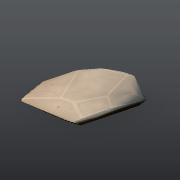
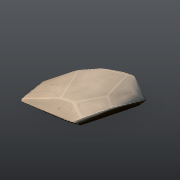
Dents: soft worn hollows in a rock's larger faces
A new Dents setting under Shape lets some of the larger faces dip a little,
their light turning in and their middle darkening, so they read as worn
hollows. It moves points already in the face, so it adds no faces. Dents is
0.3 for new rocks; saved and low-poly rocks have none.

Changed region(s): [[0.4167, 0.5556, 0.7778, 0.6944], [0.3056, 0.5833, 0.3333, 0.6111]]

diff --git a/frontend/src/assets/rocks/rock-mesh.ts b/frontend/src/assets/rocks/rock-mesh.ts
@@ -46,6 +46,8 @@ export interface RockSurface {
      * colour carry over their seams, and every chunk rounds a little more.
      */
     readonly blend?: number
+    /** How many of a carved rock's larger faces dip into soft hollows, 0 to 1. Left out, none. */
+    readonly dents?: number
 }
 
 /** How far the warp moves a point at full Bend, as a share of the rock's size. */
@@ -87,6 +89,11 @@ const BLEND_ROUNDING = 0.4
 const BLEND_WHOLE = 0.35
 /** How much of a seam's darkness full Blend takes away, leaving a crease. */
 const BLEND_SEAM = 0.75
+/** At full Dents, the share of large faces that dip, how deep against the face's size, how far their light turns and how much darker they are. */
+const DENT_SHARE = 0.6
+const DENT_DEPTH = 0.08
+const DENT_TILT = 0.18
+const DENT_SHADE = 0.22
 /** A carved rock's contact with the ground: a short, strong dark band. */
 const CONTACT_REACH = 0.1
 const CONTACT_DARK = 0.42
@@ -484,6 +491,11 @@ function meshAt(plan: RockPlan, surface: RockSurface, seed: number, detail: numb
                     : corners.map((p): Vec3 => [middle[0] + (p[0] - middle[0]) * at, middle[1] + (p[1] - middle[1]) * at, middle[2] + (p[2] - middle[2]) * at]),
             )
             const pillow = carved ? surface.bend * PILLOW * radius : 0
+            // Which faces dip is read from the face's own number, so it stays the same at every setting.
+            const dents = clamp01(surface.dents ?? 0)
+            const dented = carvedFully && dents > 0 && radius > size * INNER_FROM && (plane.tone * 7.31) % 1 < dents * DENT_SHARE
+            const dip = dented ? DENT_DEPTH * radius * (0.6 + dents * 0.4) : 0
+            const hollow = dented ? 0.6 + dents * 0.4 : 0
             // A vertex is written only if a triangle that stays uses it.
             const written = new Map<string, number>()
             const vertex = (slot: string, p: Vec3, n: Vec3, onEdge: boolean, at = 0) => {
@@ -492,10 +504,22 @@ function meshAt(plan: RockPlan, surface: RockSurface, seed: number, detail: numb
                 if (index === undefined) {
                     // A carved face swells a little towards its middle; its edges stay put,
                     // so it still meets the next face.
-                    const rise = pillow * (1 - at * at)
-                    const moved = warp(rise > 0 ? [p[0] + plane.n[0] * rise, p[1] + plane.n[1] * rise, p[2] + plane.n[2] * rise] : p)
-                    const lit = carved ? roundedLight(n, p) : n
+                    // A dented face dips instead, its light turning in towards the hollow.
+                    const rise = (pillow - dip) * (1 - at * at)
+                    const moved = warp(rise !== 0 ? [p[0] + plane.n[0] * rise, p[1] + plane.n[1] * rise, p[2] + plane.n[2] * rise] : p)
+                    const smooth = carved ? roundedLight(n, p) : n
+                    const lit = dented
+                        ? normalize([
+                              smooth[0] + ((middle[0] - p[0]) / radius) * DENT_TILT * hollow,
+                              smooth[1] + ((middle[1] - p[1]) / radius) * DENT_TILT * hollow,
+                              smooth[2] + ((middle[2] - p[2]) / radius) * DENT_TILT * hollow,
+                          ])
+                        : smooth
                     const colour = paint(p, plane, chunkIndex, onEdge, carved ? {n: lit, at} : undefined)
+
+                    if (dented) {
+                        colour.multiplyScalar(1 - DENT_SHADE * hollow * (1 - at * at))
+                    }
 
                     index = positions.length / 3
                     positions.push(moved[0], moved[1], moved[2])

diff --git a/frontend/src/assets/rocks/cut-rock-generator.ts b/frontend/src/assets/rocks/cut-rock-generator.ts
@@ -88,7 +88,7 @@ const PALETTE: ChoiceParameter<RockPaletteId | OwnColours> = {
 }
 
 /** Controls a low-poly rock has no use for: its edges are hard and its faces flat. */
-const HIDDEN_WHEN_LOW_POLY: readonly string[] = ['edges', 'bend', 'grain', 'rounded', 'blend']
+const HIDDEN_WHEN_LOW_POLY: readonly string[] = ['edges', 'bend', 'grain', 'rounded', 'blend', 'dents']
 
 const STONE = ownColours(PALETTE, ROCK_RAMPS, STONE_ROWS, 'stone')
 
@@ -109,10 +109,12 @@ const VARIATION = number(SURFACE, 'variation', 'Variation', 'How much one face d
 const ROUNDED = number(SURFACE, 'rounded', 'Rounded light', 'How the light falls: flat on each face, or rolling over the whole stone like a pebble. The faces and outline stay as they are.', 0, 1, 0.05, 0.5)
 /** On for new rocks. A saved file without it opens with none. */
 const BLEND = number(SURFACE, 'blend', 'Blend', 'How far the chunks run together into one stone, so where they meet reads as a crease and not a cut.', 0, 1, 0.05, 0.6)
+/** On for new rocks. A saved file without it opens with none. */
+const DENTS = number(SHAPE, 'dents', 'Dents', 'Soft hollows worn into some of the larger faces.', 0, 1, 0.05, 0.3)
 const RUBBLE = number(SHAPE, 'rubble', 'Rubble', 'Small stones of the same rock lying round its foot.', 0, 1, 0.05, 0)
 const GRAIN = number(SURFACE, 'grain', 'Grain', 'Fine speckle, small pits and hairline cracks in the stone, seen up close.', 0, 1, 0.05, 0.6)
 
-const specs: readonly ParameterSpec[] = [BUILD, KIND, WIDTH, HEIGHT, DEPTH, CHUNKS, FACES, CUTS, RUBBLE, EDGES, ROUNDED, BLEND, BEND, VARIATION, GRAIN, PALETTE, ...STONE.specs, SNOW, MOSS, MOSS_FROM, WET, CRACKS, CRUMBLE]
+const specs: readonly ParameterSpec[] = [BUILD, KIND, WIDTH, HEIGHT, DEPTH, CHUNKS, FACES, CUTS, DENTS, RUBBLE, EDGES, ROUNDED, BLEND, BEND, VARIATION, GRAIN, PALETTE, ...STONE.specs, SNOW, MOSS, MOSS_FROM, WET, CRACKS, CRUMBLE]
 
 export interface CutRockParameters extends Partial<OwnColourValues<typeof STONE_ROWS>> {
     readonly build: RockBuild
@@ -136,6 +138,7 @@ export interface CutRockParameters extends Partial<OwnColourValues<typeof STONE_
     readonly rounded: number
     readonly blend: number
     readonly rubble: number
+    readonly dents: number
     readonly palette: RockPaletteId | OwnColours
 }
 
@@ -159,6 +162,7 @@ export const cutRockDefaults: CutRockParameters = {
     rounded: ROUNDED.default,
     blend: BLEND.default,
     rubble: RUBBLE.default,
+    dents: DENTS.default,
     palette: PALETTE.default,
 }
 
@@ -182,6 +186,7 @@ const cutRockSchema = z.object({
     rounded: numberSchema(ROUNDED),
     blend: numberSchema(BLEND),
     rubble: numberSchema(RUBBLE),
+    dents: numberSchema(DENTS),
     palette: choiceSchema(PALETTE),
     ...STONE.schema,
 })

diff --git a/frontend/src/tests/rock-blend.test.ts b/frontend/src/tests/rock-blend.test.ts
@@ -116,3 +116,47 @@ describe('rubble', () => {
         expect(faces(1, 0.12)).toBeGreaterThan(faces(0, 0.12))
     })
 })
+
+describe('dents', () => {
+    const mossy = (changes: Partial<CutRockParameters> = {}): CutRockParameters => ({...(findPreset('mossy-boulder')!.parameters as unknown as CutRockParameters), ...changes})
+    const mossySeed = findPreset('mossy-boulder')!.seed
+    const build = (rock: CutRockParameters) => buildRockMesh(planRock(rock, mossySeed), rock, mossySeed, 1)
+
+    it('are on for new rocks, hidden on a low-poly one, and none on a saved one', () => {
+        expect(cutRockDefaults.dents).toBe(0.3)
+        expect(cutRockGenerator.shownControls!({...cutRockDefaults, build: 'low-poly'}).map((spec) => spec.key)).not.toContain('dents')
+
+        const document = JSON.parse(serializeProject({scene: createSceneFromPreset('boulder'), style: 'low-poly'})) as {
+            scene: {assets: {parameters: Record<string, unknown>}[]}
+        }
+
+        delete document.scene.assets[0].parameters.dents
+        expect(parseProject(JSON.stringify(document)).scene.assets[0].parameters.dents).toBe(0)
+    })
+
+    it('hollow some faces darker and deeper, at no cost in faces', () => {
+        const flat = build(mossy({dents: 0}))
+        const dented = build(mossy({dents: 1}))
+        const total = (geometry: THREE.BufferGeometry) => {
+            const colour = geometry.getAttribute('color')
+            let sum = 0
+
+            for (let index = 0; index < colour.count; index++) {
+                sum += brightness(colour, index)
+            }
+
+            return sum
+        }
+
+        expect(dented.index!.count).toBe(flat.index!.count)
+        expect(total(dented)).toBeLessThan(total(flat))
+        expect(Array.from(dented.getAttribute('position').array)).not.toEqual(Array.from(flat.getAttribute('position').array))
+    })
+
+    it('leave a rock saved before Rounded light alone', () => {
+        const before = build(mossy({rounded: 0, dents: 0}))
+        const after = build(mossy({rounded: 0, dents: 1}))
+
+        expect(Array.from(after.getAttribute('position').array)).toEqual(Array.from(before.getAttribute('position').array))
+    })
+})

diff --git a/frontend/src/core/project/project-document.ts b/frontend/src/core/project/project-document.ts
@@ -262,8 +262,8 @@ export function parseProject(text: string): LoadedProject {
  * file version stays as it is and older builds still open what this one saves.
  */
 const EARLIER_LOOKS: Readonly<Record<string, Readonly<Record<string, number>>>> = {
-    // Rocks gained Grain after 0.4.2, then Rounded light and Blend.
-    'cut-rock': {grain: 0, rounded: 0, blend: 0},
+    // Rocks gained Grain after 0.4.2, then Rounded light, Blend and Dents.
+    'cut-rock': {grain: 0, rounded: 0, blend: 0, dents: 0},
 }
 
 function filledIn(values: unknown, earlier: Readonly<Record<string, number>>): unknown {

diff --git a/frontend/src/tests/cut-rock.test.ts b/frontend/src/tests/cut-rock.test.ts
@@ -61,7 +61,8 @@ describe('cut rocks', () => {
     })
 
     it('leaves nothing hidden inside another chunk', () => {
-        const rock = {...cutRockDefaults, bend: 0, chunks: 4}
+        // Flat faces: bending and dents move points off their planes on purpose.
+        const rock = {...cutRockDefaults, bend: 0, dents: 0, chunks: 4}
         const plan = planRock(rock, 5)
         const geometry = buildRockMesh(plan, rock, 5, 1)
         const position = geometry.getAttribute('position')

diff --git a/docs/terminology.md b/docs/terminology.md
@@ -43,6 +43,7 @@ agree on the term first, or rethink the control.
 | Moss direction, occlusion side | **Moss grows** | **On top** / **On one side** |
 | Smooth shading, rounded normals | **Rounded light** | On rocks: light rolls over the stone like a pebble, the faces stay flat. Never "normals" or "smooth shading" |
 | Chunk merging, seam smoothing | **Blend** | On rocks: how far the chunks run together into one stone |
+| Concavities, displacement inward | **Dents** | On rocks: soft hollows worn into some larger faces |
 | Scatter, debris | **Rubble** | On rocks: small stones lying round the foot |
 | Detail texture, normal map, micro detail | **Grain** | On rocks: fine speckle, pits and hairline cracks seen up close. Never "texture" or "normal map" |
 | End cap, cross-section texture | **Cut ends** | The sawn faces of a stump, log or branch, with their rings |
